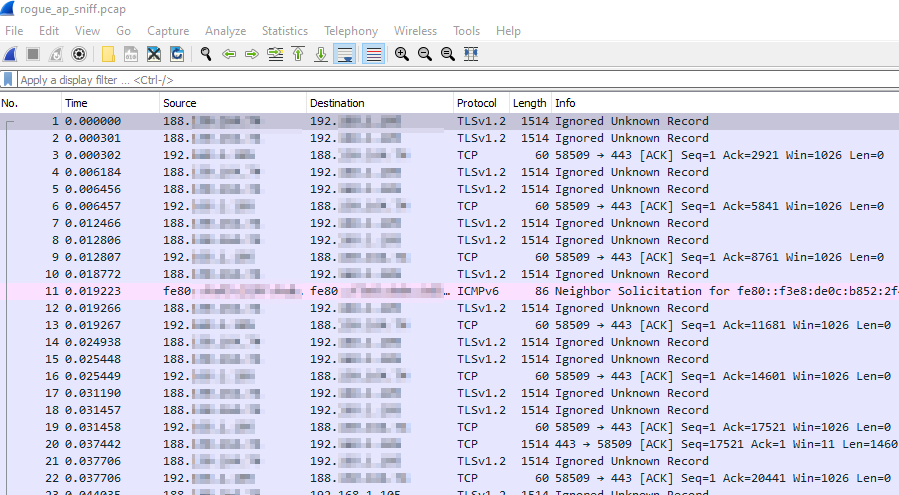
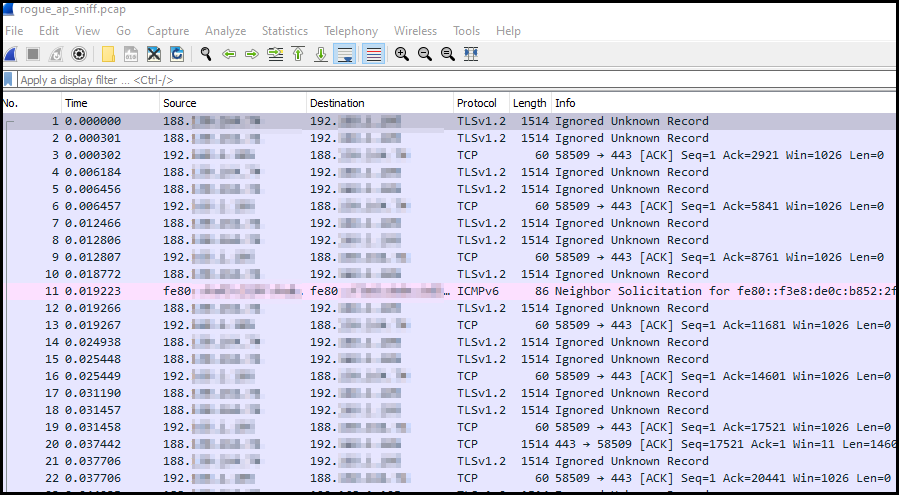
Border added to the images. Grammer fixed on the part3 tutorial.

Changed region(s): [[0.0, 0.0, 1.0, 1.0]]

diff --git a/_posts/2021-03-07-wifi-rouge-access-point-part3.md b/_posts/2021-03-07-wifi-rouge-access-point-part3.md
@@ -13,19 +13,19 @@ I will also show some basics of Wireshark, a network protocol analyzer, to read 
 
 
 # 1. Access Point
-Before we get started, make sure you have two WiFi interfaces or one WiFi and one Ethernet interface. One will be used for creating access point and the other one will be used for internet. Because you will need to provide internet access to your users. If not, they will realize something is wrong and will disconenct from your access point. **I will use Ethernet**. But the instructions are same either way.
+Before we get started, make sure you have two WiFi interfaces or one WiFi and one Ethernet interface. One will be used for creating an access point and the other one will be used for the internet. Because you will need to provide internet access to your users. If not, they will realize something is wrong and will disconnect from your access point. **I will use Ethernet**. But the instructions are the same either way.
 
-To turn our wifi adapter into access point mode we will use a tool called `hostapd`. It is a user space daemon for access point and authentication servers. To install type the following command in a terminal:
+To turn our wifi adapter into access point mode we will use a tool called `hostapd`. It is a user-space daemon for access points and authentication servers. To install type the following command in a terminal:
 ~~~
 sudo apt-get update
 sudo apt-get install hostapd
 ~~~
 
-If you haven't run the update before, run that command before installing `hostapd`. Now, this tool requires a config file that contains the necessary information to create access point. Let's create a blank document in that '*mitm*' folder and rename it to `wifi_ap.config`. Open it with a text editor. The file will need to have the following configs:  
-- **WiFi Interface:** The wifi interface you want to use to create access point. In my case it should be my Atheros WiFi adapter i.e. `wlxc01c3006xxxxx` or in Kali Linux it is `wlan0`.
+If you haven't run the update before, run that command before installing `hostapd`. Now, this tool requires a config file that contains the necessary information to create an access point. Let's create a blank document in that '*mitm*' folder and rename it to `wifi_ap.config`. Open it with a text editor. The file will need to have the following configs:  
+- **WiFi Interface:** The wifi interface you want to use to create an access point. In my case, it would be my Atheros WiFi adapter i.e. `wlxc01c3006xxxxx` or in Kali Linux it is `wlan0`.
 - **Bridge Interface:** We will need to create a bridge that will connect the access point and the internet. We can use any name for the bridge. We will call it `br0`.
 - **WiFi Driver:** The wifi driver we want to use. That will be `nl80211`.
-- **Hardware mode:** WiFi ([IEEE 802.11](https://en.wikipedia.org/wiki/IEEE_802.11#Protocol)) comes with different flavors. Hardware mode defines which one of the flavor you want to use for your acess point. The hardware mode can be:
+- **Hardware mode:** WiFi ([IEEE 802.11](https://en.wikipedia.org/wiki/IEEE_802.11#Protocol)) comes in different flavors. Hardware mode defines which one of the flavors you want to use for your access point. The hardware mode can be:
 	- a = IEEE 802.11a (5 GHz) (if your adapter supports 5GHz)
 	- b = IEEE 802.11b (2.4 GHz) (default)
 	- g = IEEE 802.11g (2.4 GHz) 
@@ -33,7 +33,7 @@ If you haven't run the update before, run that command before installing `hostap
 - **SSID:** We will have to use a name for our access point that will entice our target to connect to it. Some of the examples can be, `StarbucksGuest`, `AT&T_Free`, `Walmartwifi_2.4`.
 - **Channel:** What channel you want to use for your access point.
 
-If you want to learn more about hostapd config file parameters checkout this [link](https://w1.fi/cgit/hostap/plain/hostapd/hostapd.conf). This is what my config file looks like:
+If you want to learn more about hostapd config file parameters check out this [link](https://w1.fi/cgit/hostap/plain/hostapd/hostapd.conf). This is what my config file looks like:
 ~~~
 interface=wlxc01c3006xxxxx
 bridge=br0
@@ -46,7 +46,7 @@ channel=1
 You can simply copy these lines and paste those in the `wifi_ap.config`. Don't forget to replace my wireless interface with yours.
 
 # 2. Bridging
-As I mentioned earlier, we will need to create a virtual bridge between our two interfaces, wifi access point and the internet. That will take our target out to real internet and they wont know that we are actually in the middle. To do that we will use `bridge-utils`. To install type the following command in a terminal:
+As I mentioned earlier, we will need to create a virtual bridge between our two interfaces, the wifi access point and the internet. That will take our target out to the real internet and they won't know that we are actually in the middle. To do that we will use `bridge-utils`. To install type the following command in a terminal:
 ~~~
 sudo apt-get install bridge-utils
 ~~~
@@ -56,7 +56,7 @@ Create a bridge using the following command:
 sudo brctl addbr br0
 ~~~
 
-`br0` is our bridge name. Now connect an interface to that bridge. In my case I am using an ethernet connection. And from `ifconfig` I know my ethernet interface is `ens33`.
+`br0` is our bridge name. Now connect an interface to that bridge. In my case, I am using an ethernet connection. And from `ifconfig` I know my ethernet interface is `ens33`.
 ~~~
 sudo brctl addif br0 ens33
 ~~~
@@ -103,9 +103,9 @@ sudo ifconfig ens33 up
 ~~~
 sudo hostapd -d wifi_ap.config
 ~~~
-`-d` enables verbose output. It will show the vital information about your target when they connect to your access point. For example, the mac address, if their conenction is successful etc.
+`-d` enables verbose output. It will show vital information about your target when they connect to your access point. For example, the mac address, if their connection is successful, etc.
 
-**Sniff on bridge:** We will start our sniffing on the bridge. Not on the wifi interface, not on the ethernet interface.
+**Sniff on the bridge:** We will start our sniffing on the bridge. Not on the wifi interface, not on the ethernet interface.
 ~~~
 sudo tcpdump -i br0 -w rogue_ap_sniff.pcap
 ~~~
@@ -114,7 +114,7 @@ If you don't know where the terminal is saving the pcap file, run `pwd` and it w
 {: .box-warning}
 In Kali Linux, your wireless interface might show up as `wlan0` and ethernet interface as `eth0`.
 
-You can also limit the sniffer to capture just the tcp packets:
+You can also limit the sniffer to capture just the TCP packets:
 ~~~
 sudo tcpdump -i br0 tcp -w rogue_ap_sniff.pcap
 ~~~
@@ -160,16 +160,16 @@ wlxc01c3006xxxxx: Timeout, sending deauthentication info to STA 3a:xx:xx:xx:xx:x
 
 Line 3 shows the disconnect message.
 
-Now it is time to wait for your target to conenct to your access point.
+Now it is time to wait for your target to connect to your access point.
 
 # 5. Reading pcap Files using Wireshark
 Wireshark is the world’s foremost and widely-used network protocol analyzer. This tool will make your wifi packet analysis a breeze. You can download it from [here](https://www.wireshark.org/#download). You don't necessarily need to use Linux for this. So, I am going to install it on my Windows.
 
-If you follow along the previous steps you have a file, named `rogue_ap_sniff.pcap`, consists of wifi packets, in the '*mitm*' folder. Copy that file into Windows. Now open the Wireshark and go to **File->Open** and browse to the pcap file. Once you open it you should see something like this:
+If you followed the previous steps you have a file, named `rogue_ap_sniff.pcap`, consists of wifi packets, in the '*mitm*' folder. Copy that file into Windows. Now open the Wireshark and go to **File->Open** and browse to the pcap file. Once you open it you should see something like this:
 
 ![wireshark](/img/wifi/wireshark1.png){: .center-block :}
 
-That's a lot of packets. Let's just filter the packets we are interested in. From the `hostapd` output we know my device's mac address. Let's use that as our filter. Also let's limit the packets to just TCP. Type the following on the filter window:
+That's a lot of packets. Let's just filter the packets we are interested in. From the `hostapd` output, we know my device's mac address. Let's use that as our filter. Also, let's limit the packets to just TCP. Type the following on the filter window:
 
 ~~~
 eth.addr == 3a:xx:xx:xx:xx:xx && tcp
@@ -177,7 +177,7 @@ eth.addr == 3a:xx:xx:xx:xx:xx && tcp
 
 ![wireshark](/img/wifi/wireshark2.png){: .center-block :}
 
-From there I can see my device that was connected to the rogue access point had `192.168.1.171` as ip address. Now you can click on any of these packets and a detail info of that packet will show up in the **Packet details** window.
+From there I can see my device that was connected to the rogue access point had `192.168.1.171` as an IP address. Now you can click on any of these packets and the detailed info of that packet will show up in the **Packet details** window.
 
 ![wireshark](/img/wifi/wireshark3.png){: .center-block :}
 
